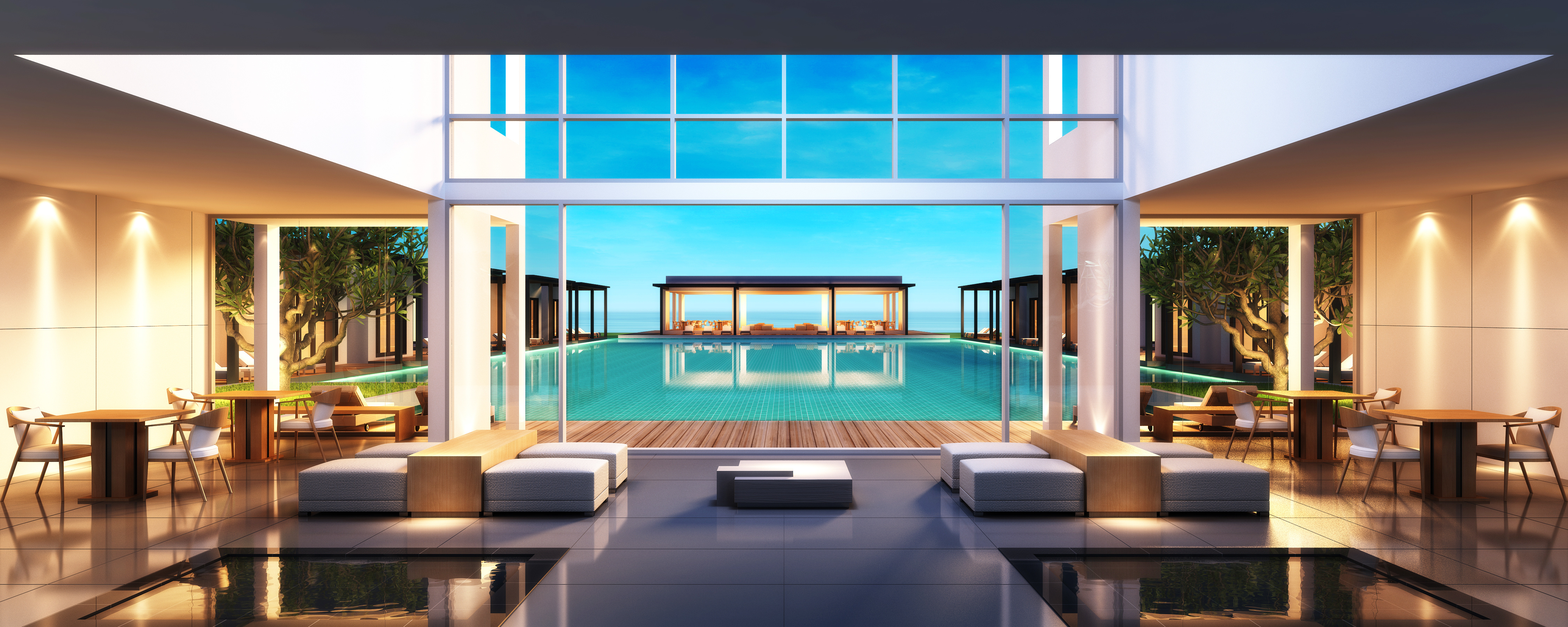
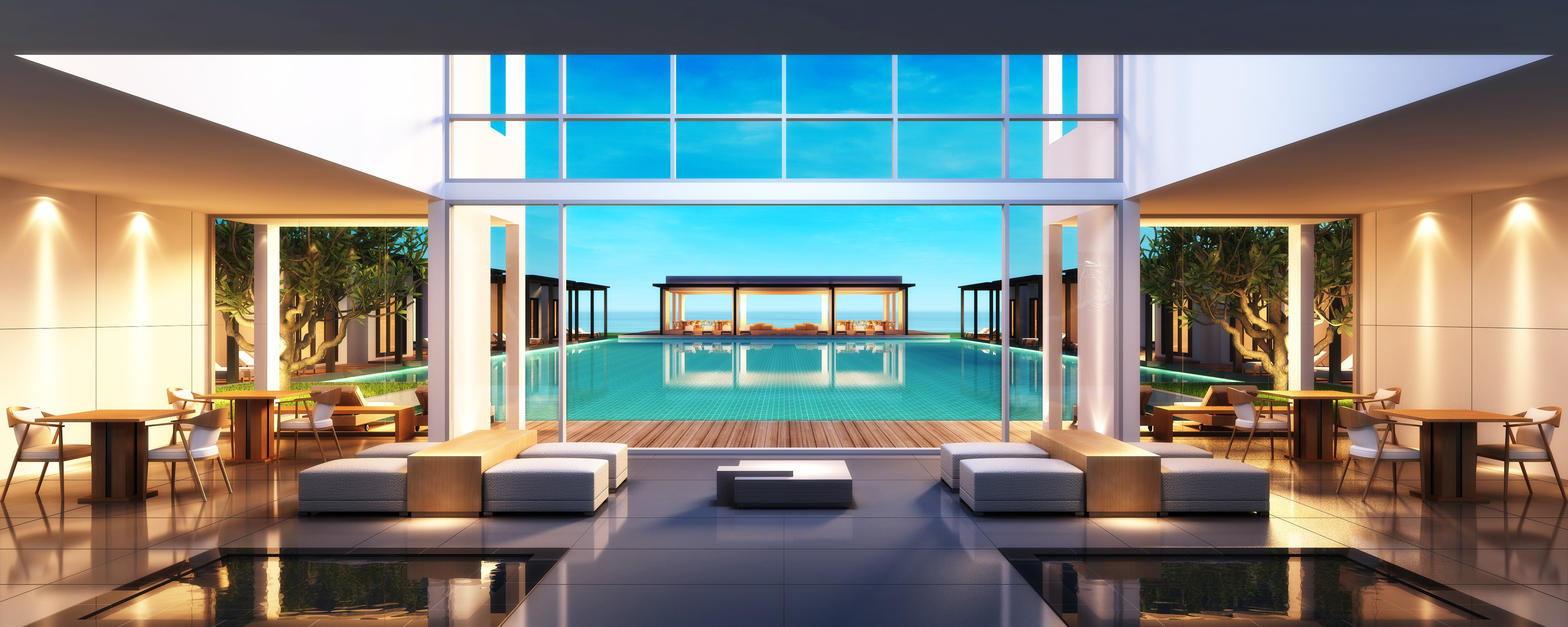
optimizing images

Changed region(s): [[0.5289, 0.4978, 0.56, 0.5289], [0.4356, 0.4978, 0.4667, 0.5289], [0.2489, 0.3733, 0.28, 0.4044]]

diff --git a/pages/components/footer/footer.scss b/pages/components/footer/footer.scss
@@ -91,16 +91,16 @@
         a {
           float: left;
           button {
-            font-size: $font-size-tiny;
+            font-size: $font-size-medium;
             line-height: $font-size-medium;
             text-transform: uppercase;
-            font-weight: 900;
+            //font-weight: 900;
             border: none;
             color: white;
             font-family: $font-family-body;
             height: 39px;
             background: $color-green;
-            width: 150px;
+            width: 180px;
           }
         }
       }

diff --git a/pages/components/navigation/navigation.scss b/pages/components/navigation/navigation.scss
@@ -92,7 +92,7 @@
      
       //background-color: #4CAF50;
       //margin-bottom: 15px;
-      color: rgb(64,65,64);
+      color: #D73B10;
       //text-size-adjust: auto;
       //@include hoverGreen;
       @include desktopSmall {
@@ -166,7 +166,7 @@
         display: block;
         float:left;
         border: none;
-        background: $color-green;
+        background:rgba(40, 40, 40, 0.8);
         opacity: 1;
         margin : 2px;
         text-size-adjust: auto;

diff --git a/pages/components/banner/banner.js b/pages/components/banner/banner.js
@@ -5,15 +5,15 @@ import SearchForm from "./_search-form.js";
 
 const images = [
  
-  'banner-1.jpeg',
-  'banner-2.jpeg',
-  'banner-3.jpeg',
-  'banner-4.jpeg',
-  'banner-5.jpeg',
-  'banner-6.jpeg',
-  'banner-7.jpeg',
-  'banner-8.jpeg',
-  'banner-9.jpeg'
+  'banner-1.webp',
+  'banner-2.webp',
+  'banner-3.webp',
+  'banner-4.webp',
+  'banner-5.webp',
+  'banner-6.webp',
+  'banner-7.webp',
+  'banner-8.webp',
+  'banner-9.webp'
   
 ];
 
